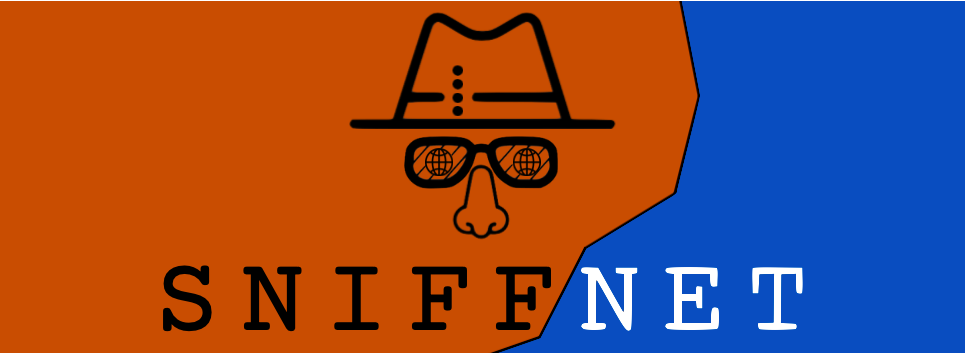
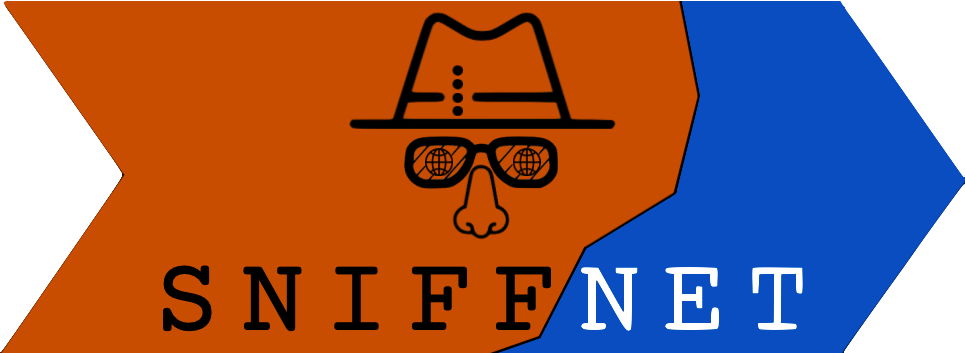
added dns-lookup dependency and re-shaped repository header pic

Changed region(s): [[0.8705, 0.0, 1.0, 1.0], [0.0, 0.0, 0.1244, 0.9972]]

diff --git a/src/gui/pages/run_page.rs b/src/gui/pages/run_page.rs
@@ -8,6 +8,7 @@ use iced::widget::{button, Column, Container, Radio, Row, Scrollable, Text};
 use iced::Length::FillPortion;
 use iced::{Alignment, Length};
 use thousands::Separable;
+//use dns_lookup::lookup_addr;
 
 use crate::enums::element_type::ElementType;
 use crate::enums::message::Message;
@@ -159,6 +160,7 @@ pub fn run_page(sniffer: &Sniffer) -> Container<Message> {
                     //.padding(10)
                     //.push(iced::Text::new(std::env::current_dir().unwrap().to_str().unwrap()).font(font))
                     //.push(iced::Text::new(confy::get_configuration_file_path("sniffnet", None).unwrap().to_string_lossy()).font(font))
+                    //.push(Text::new(lookup_addr(&"8.8.8.8".parse().unwrap()).unwrap()).font(font))
                     .push(Text::new(get_active_filters_string(&sniffer.filters.clone())).font(font))
                     .push(Text::new(" "))
                     .push(
@@ -295,12 +297,13 @@ pub fn run_page(sniffer: &Sniffer) -> Container<Message> {
                             button(
                                 Text::new('X'.to_string())
                                     .font(ICONS)
+                                    .size(14)
                                     .horizontal_alignment(Horizontal::Center)
                                     .vertical_alignment(Vertical::Center),
                             )
                             .padding(0)
-                            .height(Length::Units(20))
-                            .width(Length::Units(20))
+                            .height(Length::Units(16))
+                            .width(Length::Units(16))
                             .style(
                                 StyleTuple(
                                     sniffer.style,
